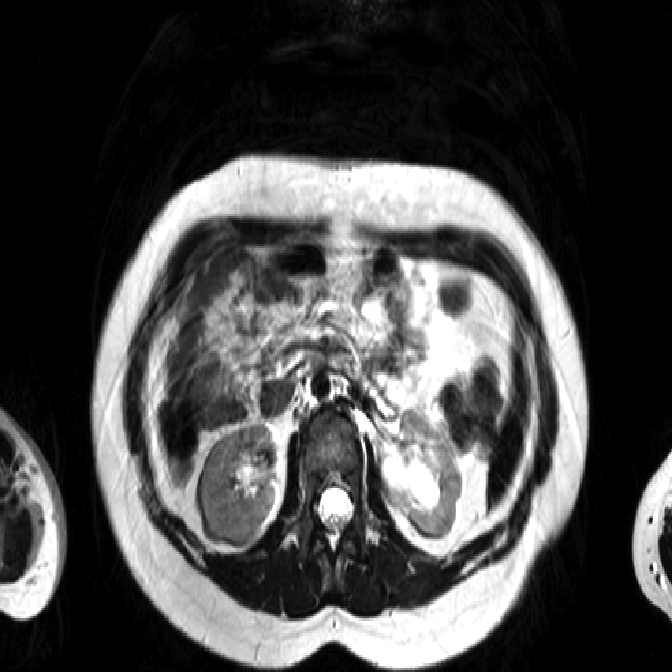
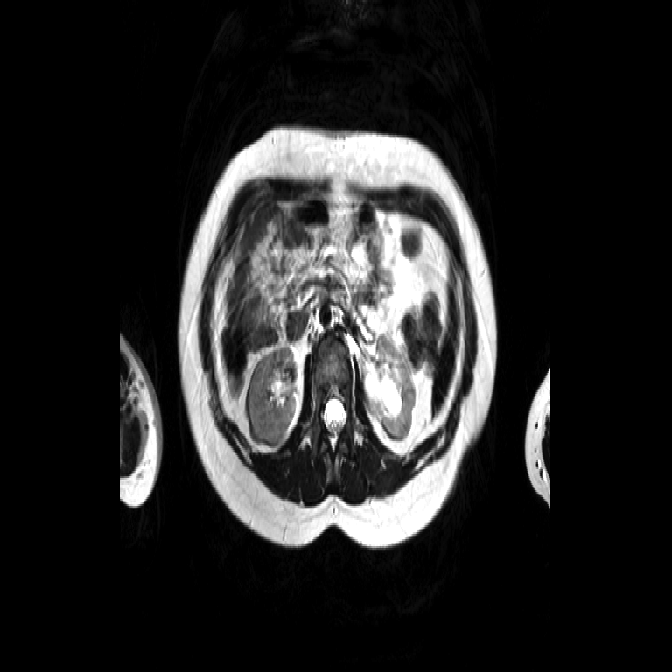
update 10-mr_images_to_tensors.Rmd

diff --git a/10-mr_images_to_tensors.md b/10-mr_images_to_tensors.md
@@ -179,19 +179,19 @@ The background noise present (left) and removed (right).
 
 
 ```r
-invisible(plot(mri_list[[1]]))
+invisible(plot(mri_list[[1]], doCropping = FALSE))
 bhistogram(as.array(mri_list[[1]]))
 
 mri_list2 <- purrr::map2(mri_list, mask_list, `*`)
 
-invisible(plot(mri_list2[[1]]))
+invisible(plot(mri_list2[[1]], doCropping = FALSE))
 bhistogram(as.array(mri_list2[[1]]))
 ```
 
 <img src="man/figures/10_images_to_tensors-figures-bgnoise-1.png" width="25%" /><img src="man/figures/10_images_to_tensors-figures-bgnoise-2.png" width="25%" /><img src="man/figures/10_images_to_tensors-figures-bgnoise-3.png" width="25%" /><img src="man/figures/10_images_to_tensors-figures-bgnoise-4.png" width="25%" />
 
 
-## Important! Removing the background artifacts from images
+## Removing the background artifacts from images
 
 
 ```r
@@ -203,10 +203,10 @@ vsat_list <- purrr::map2(vsat_list, mask_list, `*`)
 
 ```r
 lobstr::obj_sizes(mri_list, mask_list, scat_list, vsat_list)
-#> * -1,878,718,960 B
-#> *         96,785 B
-#> * -1,878,719,560 B
-#> *         96,785 B
+#> * -1,425,479,664 B
+#> *         96,768 B
+#> * -1,425,480,264 B
+#> *         96,768 B
 ```
 
 
@@ -319,10 +319,10 @@ vsat_alist <- imageList2arrayList(vsat_list)
 
 ```r
 lobstr::obj_sizes(mri_alist, mask_alist, scat_alist, vsat_alist)
-#> * -1,629,412,568 B
-#> *    188,789,905 B
-#> * -1,689,990,096 B
-#> *    188,789,905 B
+#> * -1,169,006,296 B
+#> *    188,789,888 B
+#> * -1,212,061,136 B
+#> *    188,789,888 B
 ```
 
 
@@ -342,10 +342,10 @@ str(mri_tensor)
 #>   ..$ : NULL
 #>   ..$ : NULL
 lobstr::obj_sizes(mri_tensor, mask_tensor, scat_tensor, vsat_tensor)
-#> * -288,371,848 B
-#> *  188,776,720 B
-#> * -288,377,192 B
-#> *  188,776,720 B
+#> * 188,749,440 B
+#> * 188,743,985 B
+#> * 188,743,983 B
+#> * 188,743,983 B
 ```
 
 
